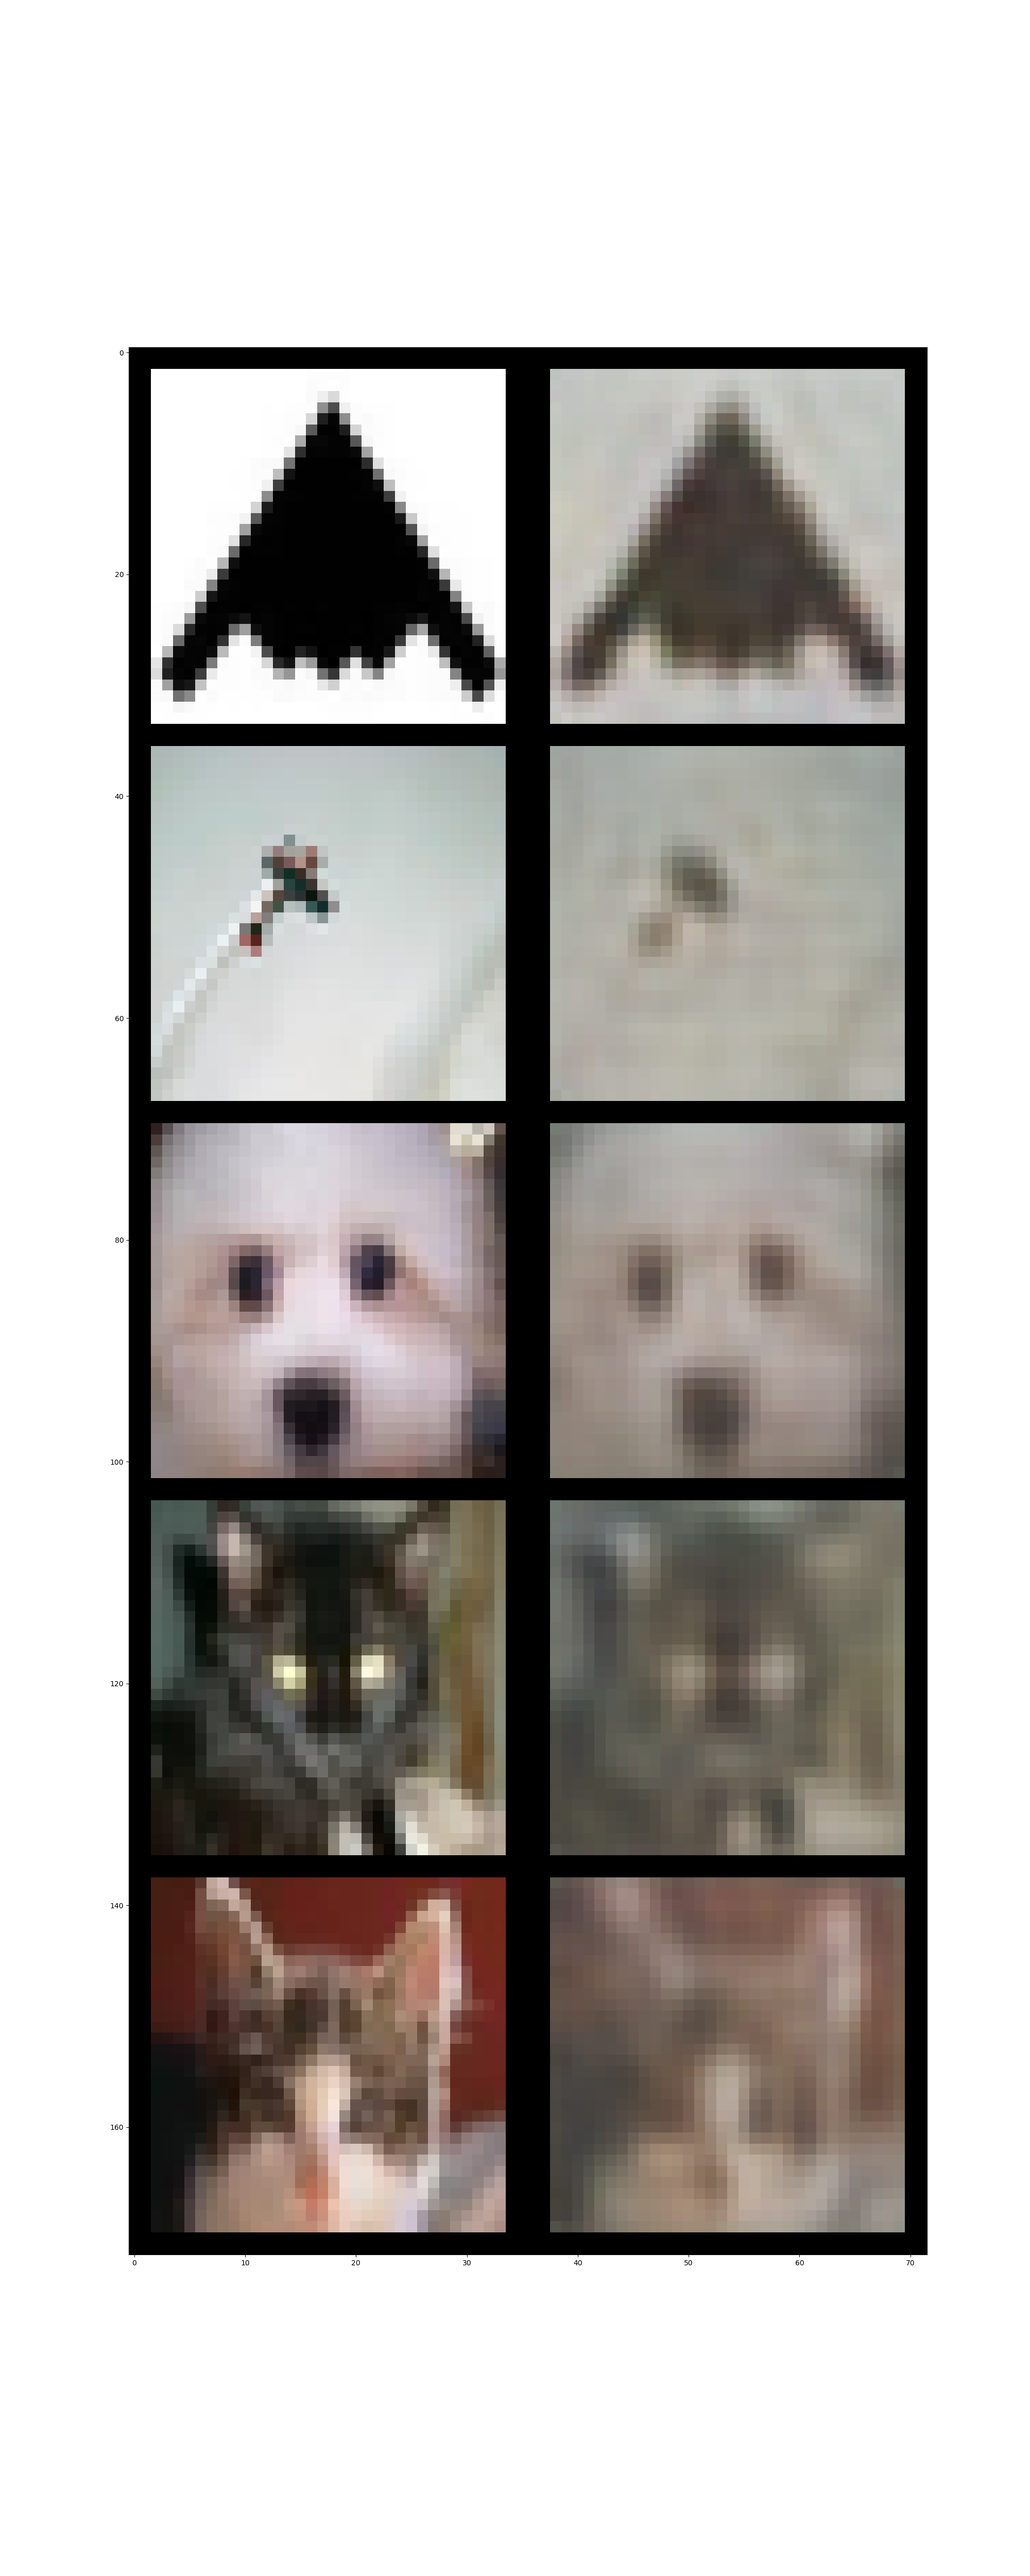
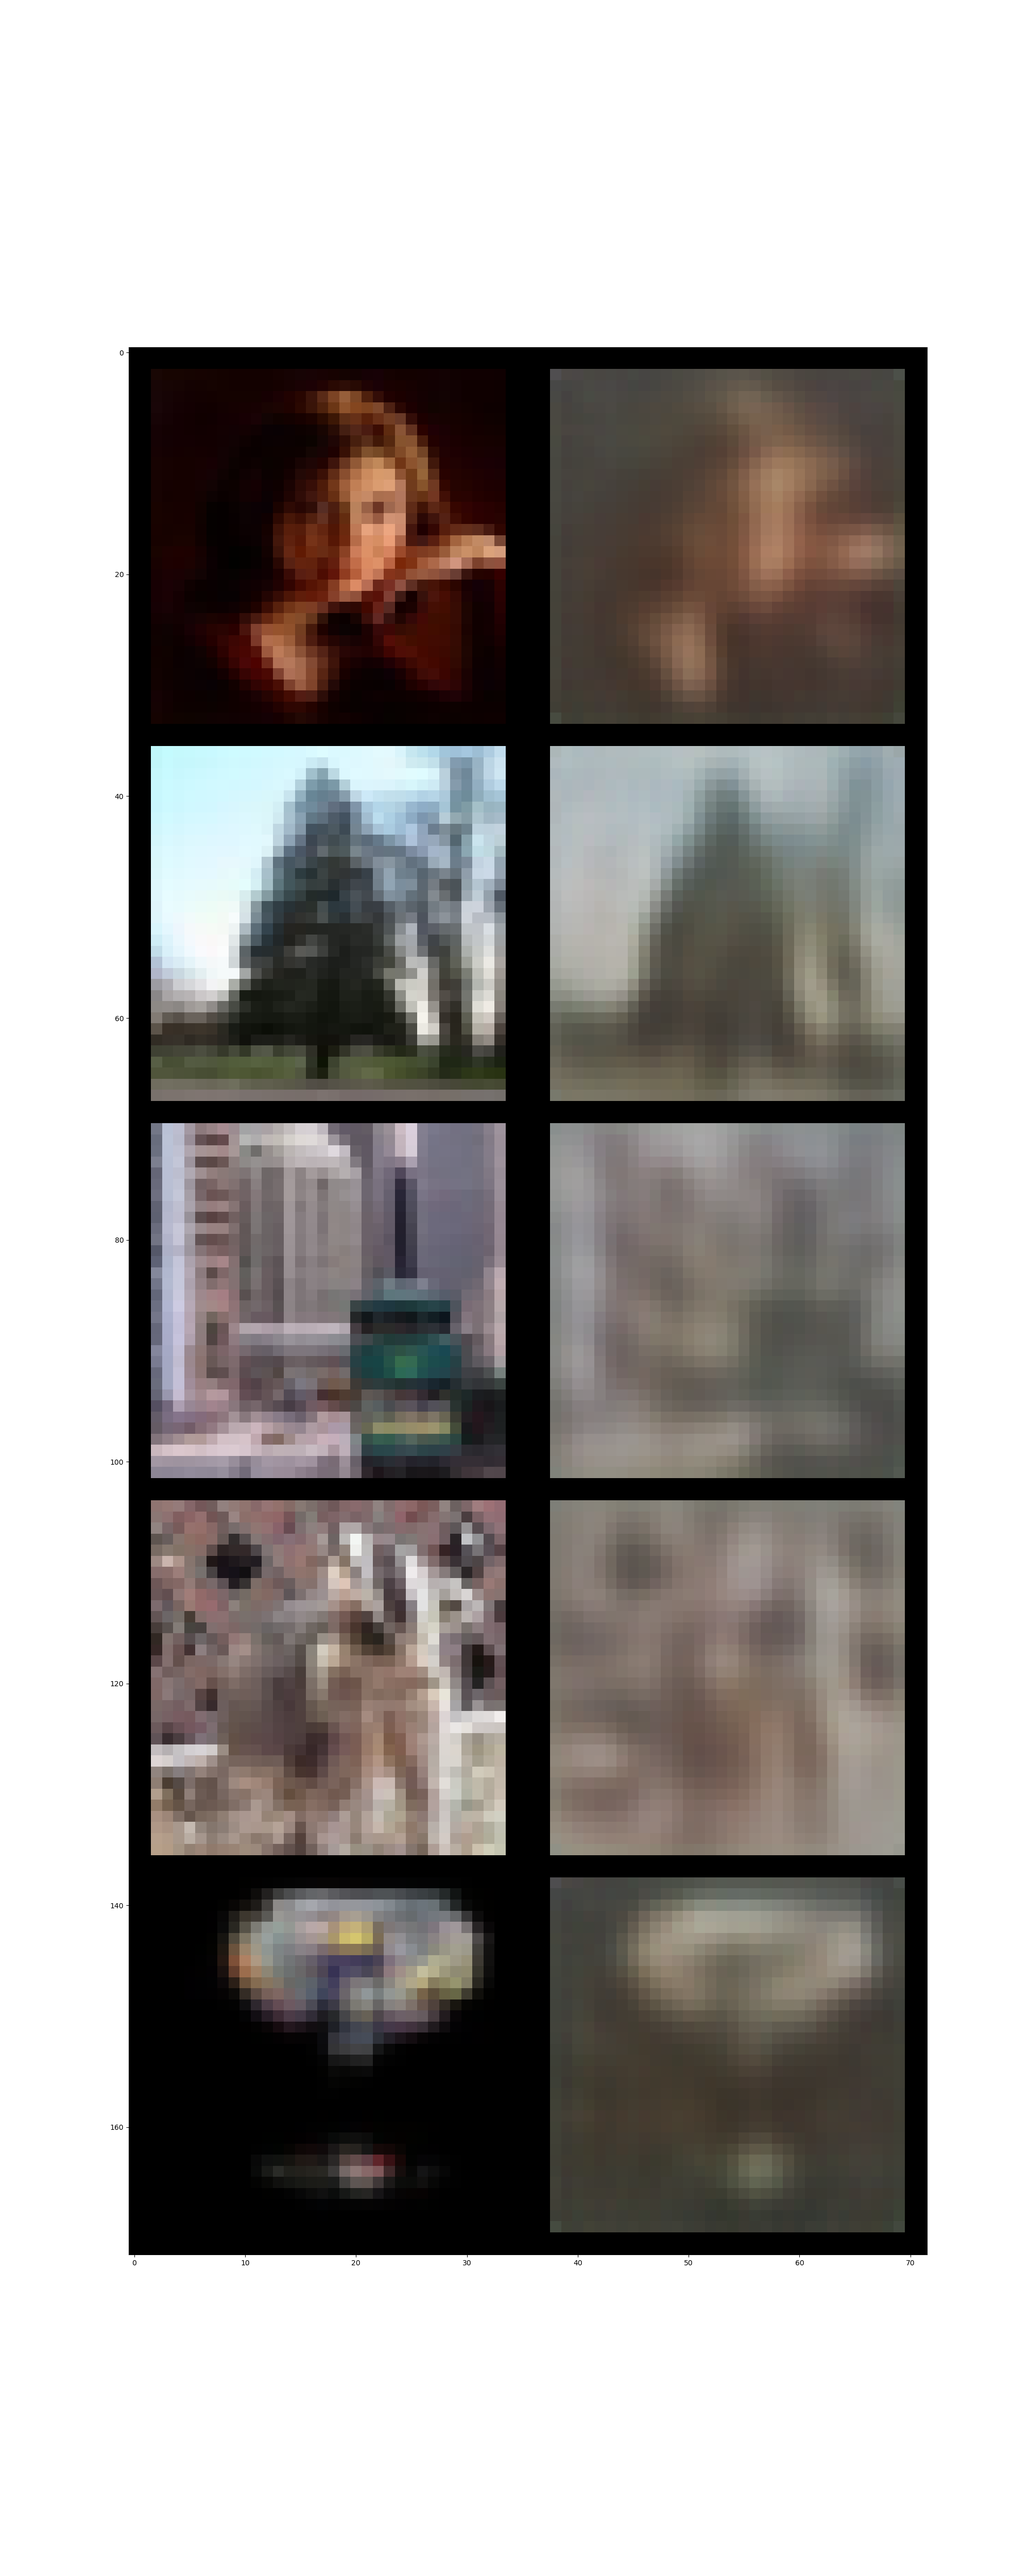
add imagenet normalization

diff --git a/main.py b/main.py
@@ -16,6 +16,7 @@ from utils.utils import show_reconstruct
 
 if __name__ == "__main__":
     args = parse_opts()
+    saved_name = "epoch=99-step=2500.ckpt"
 
     ## load dataset and define the model
     if args.dataset == "cifar100":
@@ -38,11 +39,12 @@ if __name__ == "__main__":
         MyLightningModule = autoencoder(depth=5,
                       hidden_dim=1024,
                       input_sample=test_input)
+        
 
 
     if args.synthesizing:
         model_series = f"version_{args.model_series}"
-        model = MyLightningModule.load_from_checkpoint(f'lightning_logs/{model_series}/checkpoints/epoch=299-step=7500.ckpt')
+        model = MyLightningModule.load_from_checkpoint(f'lightning_logs/{model_series}/checkpoints/{saved_name}')
         model.generate_using_smote(dl, model_series_number=model_series, save=True, saved_path="./data/{args.datasets}")
         exit("finished")
 
@@ -61,7 +63,7 @@ if __name__ == "__main__":
     
     else:
         model_series = f"version_{args.model_series}"
-        model = MyLightningModule.load_from_checkpoint(f'lightning_logs/{model_series}/checkpoints/epoch=299-step=7500.ckpt')
+        model = MyLightningModule.load_from_checkpoint(f'lightning_logs/{model_series}/checkpoints/{saved_name}')
         ## show reconstruction images and sythetic images
         x, y = next(iter(dl))
         show_reconstruct(x[:5], y[:5], model, model_series_number=model_series)

diff --git a/utils/utils.py b/utils/utils.py
@@ -45,8 +45,8 @@ class UnNormalize(object):
 def show_reconstruct(x, y, model, model_series_number="version_0"):
     
     plt.figure()
-    # unnorm = UnNormalize(fake=True)
-    recon_img = model(x)
+    unnorm = UnNormalize(norm_type="imagenet")
+    recon_img = unnorm(model(x))
     grid1 = make_grid(x, nrow=1)
     grid2 = make_grid(recon_img, nrow=1)
     grid = torch.concat([grid1, grid2], axis=2).permute(1, 2, 0)
@@ -77,9 +77,10 @@ def save_img(img, l, idx, saved_path, from_tensor=True):
 
 def save_img_batch(imglist, labellist, saved_path, start_idx):
     ## create saved folder if not exits
+    unnorm = UnNormalize(norm_type="imagenet")
     for l in set(labellist):
         os.makedirs(f"{saved_path}/{l}", exist_ok=True)
     idx_list = list(range(start_idx, len(imglist)+start_idx))
-    Parallel(n_jobs=10)(delayed(save_img)(img, l, idx, saved_path)
+    Parallel(n_jobs=10)(delayed(unnorm(save_img))(img, l, idx, saved_path)
                         for img, l, idx in 
                         zip(imglist, labellist, idx_list))

diff --git a/datasets/HAM10000.py b/datasets/HAM10000.py
@@ -55,13 +55,13 @@ class HAM(Dataset):
             transforms.RandomResizedCrop((224)),
             transforms.RandomHorizontalFlip(),
             transforms.ToTensor(),
-            # transforms.Normalize([0.485, 0.456, 0.406], [0.229, 0.224, 0.225])
+            transforms.Normalize([0.485, 0.456, 0.406], [0.229, 0.224, 0.225])
         ]),
         "val": transforms.Compose([
             transforms.Resize(256),
             transforms.CenterCrop(224),
             transforms.ToTensor(),
-            # transforms.Normalize([0.485, 0.456, 0.406], [0.229, 0.224, 0.225])
+            transforms.Normalize([0.485, 0.456, 0.406], [0.229, 0.224, 0.225])
         ])}
 
     def __getitem__(self, index):

diff --git a/models/autoencoder.py b/models/autoencoder.py
@@ -195,7 +195,7 @@ class autoencoder(pl.LightningModule):
 
         x_tilt_enc_rand = x_tilt_enc[idx]
         x_tilt_enc_rand_dec = self.decoder(x_tilt_enc_rand)
-        loss += self.criterion(x_tilt_enc_rand_dec, x_tilt)
+        loss += 0.5*self.criterion(x_tilt_enc_rand_dec, x_tilt)
         return loss
     
     def configure_optimizers(self):

diff --git a/datasets/cifar10.py b/datasets/cifar10.py
@@ -39,6 +39,7 @@ class My_CIFAR10(CIFAR10):
 def get_cifar10_dataset():
         transform = transforms.Compose([
                 transforms.ToTensor(),
+                transforms.Normalize([0.485, 0.456, 0.406], [0.229, 0.224, 0.225])
         ])
 
         cifar10_dataset = My_CIFAR10(root="./data", \

diff --git a/datasets/cifar100.py b/datasets/cifar100.py
@@ -55,6 +55,7 @@ class My_CIFAR100(CIFAR100):
 def get_cifar100_dataset():
     transform = transforms.Compose([
             transforms.ToTensor(),
+            transforms.Normalize([0.485, 0.456, 0.406], [0.229, 0.224, 0.225])
     ])
     
     cifar100_dataset = My_CIFAR100(root="./data", \
